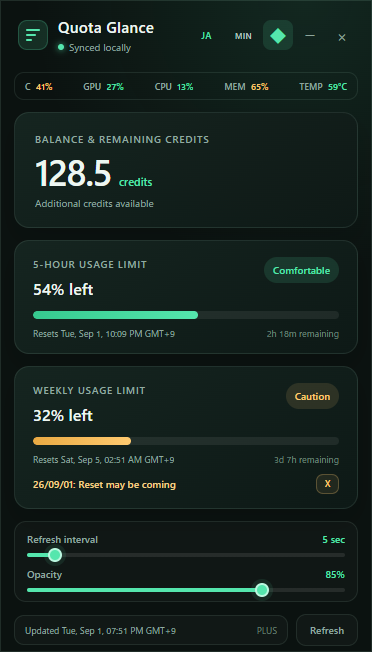
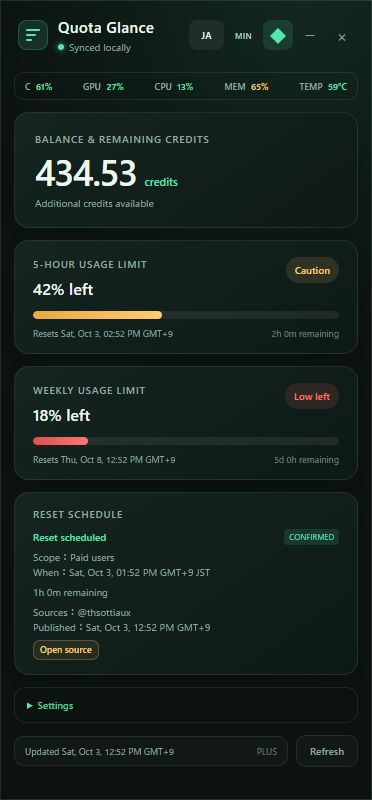
Publish Quota Glance 1.5.0 reset schedules and notifications

diff --git a/source/quota-glance.html b/source/quota-glance.html
@@ -4,7 +4,7 @@
     <meta charset="UTF-8">
     <meta name="viewport" content="width=device-width, initial-scale=1.0">
     <title>Quota Glance | VOLCANE</title>
-    <meta name="description" content="Codexの残りクレジット、5時間・週間使用率、それぞれの次回リセットをコンパクトに表示するWindows向けデスクトップユーティリティ。">
+    <meta name="description" content="Codexの残りクレジットと5時間・週間の残り利用枠を表示。確定リセット告知のカード、Windows通知、5時間枠・週間枠それぞれの通知切替に対応するWindows向けフリーソフト。">
     <link rel="canonical" href="https://volcane.pages.dev/quota-glance.html">
     <link rel="manifest" href="../public/manifest.json">
     <meta name="theme-color" content="#22d3ee">
@@ -17,7 +17,7 @@
       "name": "Quota Glance",
       "operatingSystem": "Windows 10, Windows 11",
       "applicationCategory": "UtilitiesApplication",
-      "softwareVersion": "1.4.6",
+      "softwareVersion": "1.5.0",
       "author": { "@type": "Organization", "name": "VOLCANE" },
       "offers": { "@type": "Offer", "price": "0", "priceCurrency": "JPY" }
     }
@@ -71,13 +71,15 @@
                 <img src="../public/quota-glance-icon.png" alt="Quota Glance Icon">
             </div>
             <h1 class="highlight" style="font-size: 2.5rem;">Quota Glance</h1>
-            <p class="app-subtitle">Codexの残りクレジット、5時間・週間使用率、それぞれの次回リセットを小さく見やすく表示するデスクトップユーティリティ。</p>
+            <p class="app-subtitle">Codexの残りクレジットと5時間・週間の残り利用枠を小さく表示。確定リセット告知とWindows通知で、利用再開のタイミングを確認できます。</p>
 
             <div style="margin-top: 2rem;">
-                <a href="https://github.com/VolcaneGD/quota-glance/releases/latest/download/Quota-Glance-Windows-x64.exe" class="btn btn-primary">
+                <a href="https://github.com/VolcaneGD/quota-glance/releases/download/v1.5.0/Quota-Glance-Windows-x64.exe" class="btn btn-primary">
                     <span style="margin-right: 8px;">⬇</span> Download for Windows
                 </a>
-                <p style="margin-top: 1rem; font-size: 0.8rem; color: var(--text-secondary);">Version 1.4.6 &middot; Windows 10 / 11（64bit） &middot; インストール不要。未署名のため、初回実行時にWindows SmartScreenの警告が表示される場合があります。</p>
+                <p style="margin-top: 1rem; font-size: 0.8rem; color: var(--text-secondary);">Version 1.5.0 &middot; 更新日 2026年10月3日 &middot; MIT License © 2026 VOLCANE &middot; Windows 10 / 11（64bit） &middot; インストール不要。未署名のため、初回実行時にWindows SmartScreenの警告が表示される場合があります。</p>
+                <p style="font-size: 0.8rem; color: var(--text-secondary);"><a href="https://github.com/VolcaneGD/quota-glance/releases/tag/v1.5.0">変更内容・GitHub Release</a> · <a href="https://github.com/VolcaneGD/quota-glance/releases/download/v1.5.0/SHA256SUMS.txt">SHA-256チェックサム</a></p>
+                <p style="font-size:0.7rem;color:var(--text-secondary);overflow-wrap:anywhere;">EXE SHA-256: <code>6fd6135a67cddb672839b3d3dfef1b241ffd2f7ed4c3255d8f0d7bf2d2d189ea</code></p>
             </div>
         </section>
 
@@ -90,6 +92,7 @@
                 <img src="../public/quota-glance-screenshot-ja.png" alt="Quota Glance 日本語画面" style="width: 100%; border-radius: 12px; border: 1px solid var(--card-border); box-shadow: 0 10px 30px rgba(0,0,0,0.5);">
                 <img src="../public/quota-glance-screenshot-en.png" alt="Quota Glance English interface" style="width: 100%; border-radius: 12px; border: 1px solid var(--card-border); box-shadow: 0 10px 30px rgba(0,0,0,0.5);">
             </div>
+            <p style="color:var(--text-secondary);font-size:0.8rem;">画面は告知カードを含む説明用サンプルです。現在の利用状況・実際の告知を表すものではありません。</p>
         </section>
 
         <section class="container" style="max-width: 800px; margin-top: 4rem; padding-bottom: 4rem;">
@@ -100,14 +103,17 @@
                 <h3 style="color: var(--accent); margin-top: 2rem; margin-bottom: 0.5rem; font-size: 1.2rem;">主な機能</h3>
                 <ul style="margin-left: 1.5rem; color: var(--text-secondary);">
                     <li style="margin-bottom: 0.5rem;"><strong>クレジット残高</strong>: Codexが記録した最新の残りクレジットを表示。</li>
-                    <li style="margin-bottom: 0.5rem;"><strong>5時間利用上限</strong>: 5時間枠の使用率、残り割合、次回リセットを表示。</li>
-                    <li style="margin-bottom: 0.5rem;"><strong>週間利用上限</strong>: 使用率と残り割合をプログレスバーで表示。</li>
+                    <li style="margin-bottom: 0.5rem;"><strong>5時間・週間利用上限</strong>: 残り割合とゲージを表示。緑・黄・赤の状態色で確認できます。</li>
                     <li style="margin-bottom: 0.5rem;"><strong>次回リセット</strong>: 両方の制限枠について、日本時間の日時とリセットまでの残り時間を表示。</li>
                     <li style="margin-bottom: 0.5rem;"><strong>リアルタイム更新</strong>: 更新頻度を1〜60秒のスライダーで変更でき、設定を端末内に保存。</li>
                     <li style="margin-bottom: 0.5rem;"><strong>日本語・英語</strong>: ワンクリックで切り替え、選択内容を端末内に保存。</li>
                     <li style="margin-bottom: 0.5rem;"><strong>タスクトレイ常駐</strong>: 使用率に応じたインジケータと、クリックによる再表示に対応。</li>
-                    <li style="margin-bottom: 0.5rem;"><strong>リセット可能性の通知</strong>: OpenAI関連の公開告知を補助的に表示。直近3日以内の告知がある場合だけ表示し、週間枠が100%に戻った時点、または表示開始から48時間後に自動で非表示。</li>
-                    <li style="margin-bottom: 0.5rem;"><strong>ローカル完結</strong>: 広告、テレメトリー、アクセス解析、外部へのデータ送信なし。</li>
+                    <li style="margin-bottom: 0.5rem;"><strong>確定リセット告知</strong>: 予定・実施中・実施済みを区別し、対象と日本時間の予定時刻、原典リンクを表示。相対時間は範囲で扱い、未発表の時刻を予測しません。</li>
+                    <li style="margin-bottom: 0.5rem;"><strong>Windows通知</strong>: 告知検知、既定30分前・10分前、予定変更、実施済みを通知。分数を変更でき、再起動しても同じ通知を繰り返しません。</li>
+                    <li style="margin-bottom: 0.5rem;"><strong>通知の個別切替</strong>: 5時間枠と週間枠のWindows通知をそれぞれ有効・無効にできます。通常のリセット時刻とローカル記録での回復にも対応します。</li>
+                    <li style="margin-bottom: 0.5rem;"><strong>独立したリセットスケジュール</strong>: 週間情報とは別のカードに表示し、告知がなければ非表示。最初の取得から48時間で閉じます。予定カードは取得時点で残り100%でも表示され、利用枠の回復を検知すると閉じます。</li>
+                    <li style="margin-bottom: 0.5rem;"><strong>ミニマムモード・PC状態</strong>: コンパクト表示でも残り利用枠とGPU・CPU・MEM・TEMPを確認できます。透明度やウィンドウ設定を保存します。</li>
+                    <li style="margin-bottom: 0.5rem;"><strong>プライバシー</strong>: Codexの会話や利用量を外部へ送信しません。広告・解析なし。告知取得のため公開フィード等へ接続します。</li>
                 </ul>
 
                 <h3 style="color: var(--accent); margin-top: 2rem; margin-bottom: 0.5rem; font-size: 1.2rem;">使い方</h3>
@@ -116,12 +122,14 @@
                     <li style="margin-bottom: 0.8rem;"><strong>起動</strong>: ダウンロードしたEXEを任意の場所から実行します。</li>
                     <li style="margin-bottom: 0.8rem;"><strong>言語切替</strong>: 右上の「EN」または「JA」を押します。</li>
                     <li style="margin-bottom: 0.8rem;"><strong>更新頻度</strong>: 画面下部のスライダーで1〜60秒に調整します。</li>
+                    <li style="margin-bottom: 0.8rem;"><strong>通知設定</strong>: 「設定」→「告知・Windows通知」を開き、5時間枠・週間枠、通知時点、事前通知の分数を設定します。「通知テスト」でWindows通知を確認できます。設定全体は折り畳んで非表示にできます。</li>
                     <li style="margin-bottom: 0.8rem;"><strong>常駐</strong>: 閉じるまたは最小化でタスクトレイへ格納します。</li>
                     <li style="margin-bottom: 0.8rem;"><strong>再表示・終了</strong>: トレイアイコンをクリックして再表示し、右クリックメニューから完全終了できます。</li>
                 </ol>
 
                 <h3 style="color: var(--accent); margin-top: 2rem; margin-bottom: 0.5rem; font-size: 1.2rem;">データについて</h3>
-                <p style="color: var(--text-secondary);">Quota Glanceは端末内のCodexセッションから利用状況に関する情報だけを読み取り、画面へ表示します。リセット可能性の通知はGoogleアラートRSSから生成した公開JSONフィードを既定で利用し、投稿本文・画像・作者情報は保存・配布・表示しません。必要な場合だけ、利用者自身のX API Bearer TokenをWindows暗号化ストレージへ保存して端末上で直接確認できます。このトークンはX APIへの通信以外には使用されず、VOLCANEやGitHubへ送信されません。</p>
+                <p style="color: var(--text-secondary);">利用量はCodexが最後にローカルへ記録した値です。公式ステータスと公開フィードを60秒ごとに確認し、GoogleアラートRSSは補助情報として扱います。RSSだけで確定とは判定せず、通知は既定で確定告知のみです。週間残り100%への回復も、OpenAI全体のリセット完了とは区別します。通常のリセット時刻到達通知は、利用枠への反映を保証しません。</p>
+                <p style="color: var(--text-secondary);">任意で自身のX API Bearer TokenをWindows暗号化ストレージに保存できます（X側の料金が発生する場合があります）。トークンはX API以外に送信しません。公開フィードには原典・作者・公開日時・予定などのメタデータを含みますが、投稿全文・画像・返信・非公開RSS URL・トークンは含めません。告知取得には情報源・Google・GitHub Actionsの配信遅延があります。Discord/Webhookは今回の版には含みません。</p>
 
                 <h3 style="color: var(--accent); margin-top: 2rem; margin-bottom: 0.5rem; font-size: 1.2rem;">動作環境</h3>
                 <p style="color: var(--text-secondary);">Windows 10 / 11（64bit）。CodexデスクトップアプリまたはCodex CLIを利用し、ローカルセッションが保存されている環境。</p>

diff --git a/source/index.html b/source/index.html
@@ -267,7 +267,7 @@
                             <div class="card-content">
                                 <span class="badge">WINDOWS APP</span>
                                 <h3>Quota Glance</h3>
-                                <p style="margin-bottom: 0;">Codexの残りクレジット、5時間・週間使用率、それぞれの次回リセットを確認できる常駐ユーティリティ。</p>
+                                <p style="margin-bottom: 0;">Codexの残りクレジット・利用枠、確定リセットスケジュールとWindows通知に対応する常駐ユーティリティ。</p>
                             </div>
                         </a>
 
@@ -304,6 +304,10 @@
             <div class="container">
                 <h2 class="section-title">WHAT'S NEW</h2>
                 <div class="update-list" style="max-width: 800px; margin: 0 auto;">
+                    <div class="update-item fade-in-up">
+                        <span class="update-date">2026.10.03</span>
+                        <p class="update-content"><a href="quota-glance.html">Quota Glance 1.5.0</a>を公開。確定リセット告知の予定・実施中・実施済み表示とWindows標準通知に対応。5時間枠・週間枠の通知を個別に切り替えられ、事前通知の分数変更、予定変更通知、再起動後の重複防止を追加しました。</p>
+                    </div>
                     <div class="update-item fade-in-up">
                         <span class="update-date">2026.09.02</span>
                         <p class="update-content">Component Vault 1.0.12 を公開しました。Codex を含む Agent Skills 対応エージェント向けの CLI 操作 Skill を Windows インストーラーとポータブル ZIP に同梱し、新しいセッションや別の環境でも安全な CLI 操作手順を利用できるようにしました。</p>
